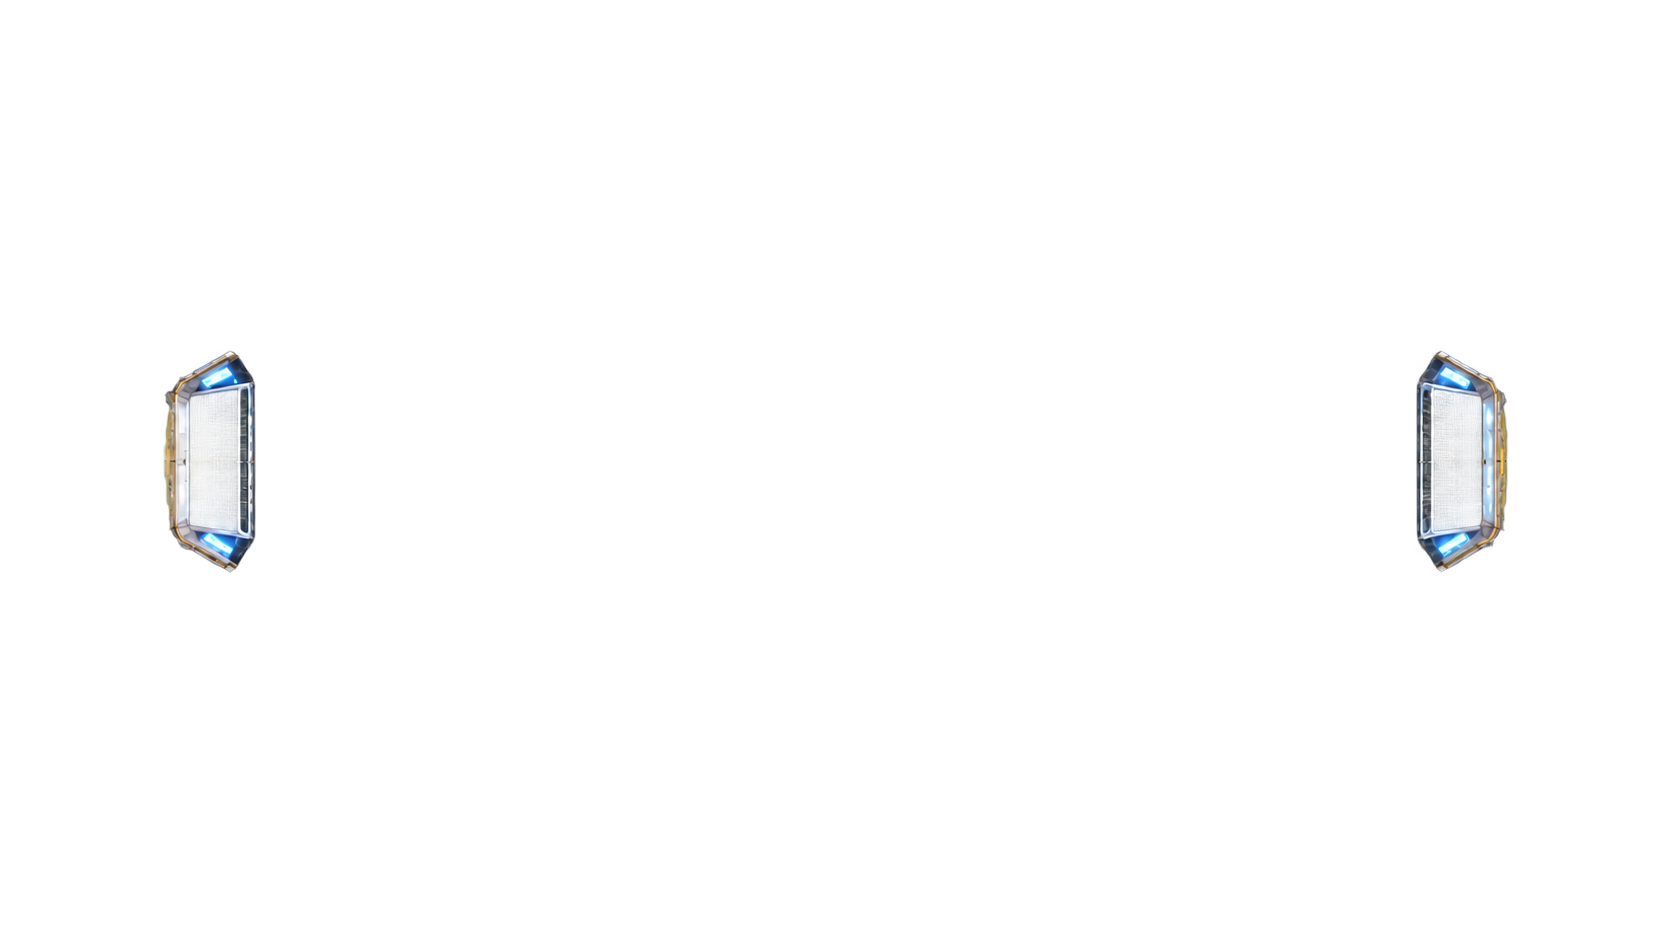
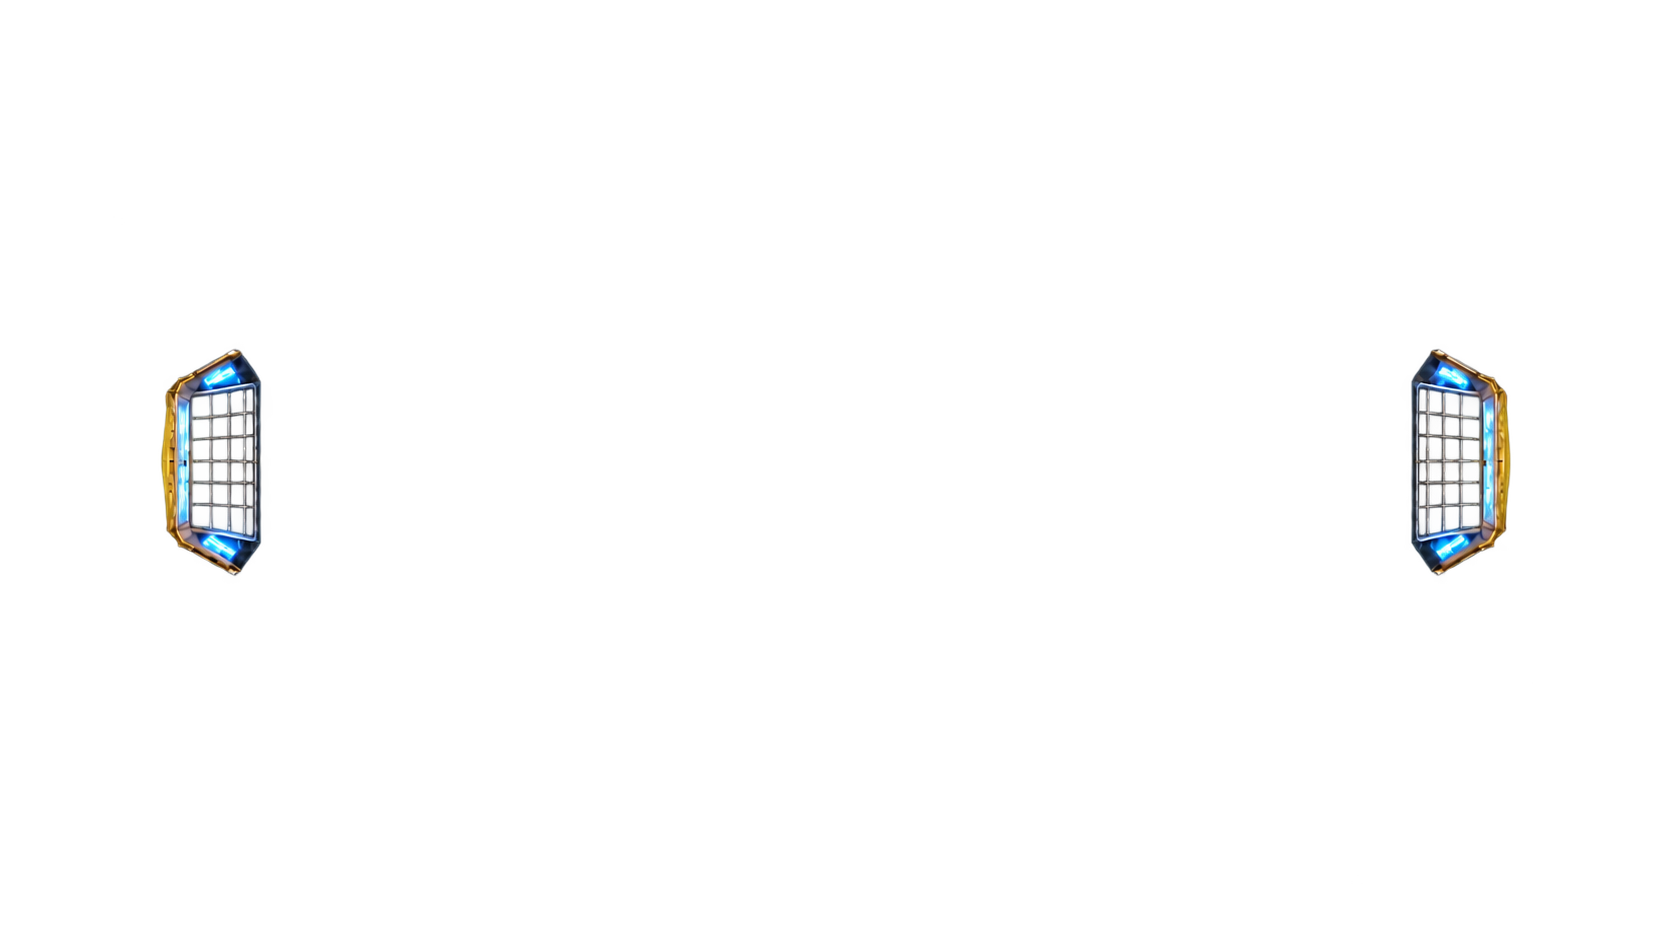
Cale les cages sur le filet peint, eclaircit la balle et fige la camera
- La cage du moteur passe de 90 a 67 de profondeur : une voiture s'y
  enfoncait d'une largeur de caisse au-dela du filet dessine. Les cages
  d'Astreon sont resserrees de 11 px vers l'exterieur pour tomber dessus.
- Plus de secousse d'ecran au contact de la balle, d'une voiture ou dans
  un coincement ; seul le but secoue encore.
- Le reflet des lampes sur la balle est double. On passe par sa force et
  non par l'eclat des panneaux, qui au-dela de 100 assombrit la balle.
- build.ps1 deposait le wasm dans public/rl2/ alors que le jeu le charge
  depuis public/rl2/assets/ : une modification du moteur n'arrivait jamais
  dans le navigateur.

Changed region(s): [[0.8397, 0.3698, 0.9019, 0.6164], [0.0933, 0.3698, 0.1555, 0.6164]]

diff --git a/public/rl2/js/scene3d.js b/public/rl2/js/scene3d.js
@@ -91,8 +91,12 @@ const LAMPES = [
   [-3.1, 4.0, -4.1, 0xffd69e], [3.1, 4.0, -4.1, 0xffffff],
   [-3.1, -4.0, -4.1, 0xb39670], [3.1, -4.0, -4.1, 0xffffff],
 ];
-/** Eclat des panneaux : c'est lui qui regle la clarte de la balle. */
-const ECLAT = 60;
+/** Eclat des panneaux. Au-dela d'environ 100, le reflet calcule decroche
+ *  et la balle s'assombrit au lieu de s'eclaircir : pour aller plus fort,
+ *  c'est `FORCE` qu'on monte, pas lui. */
+const ECLAT = 90;
+/** Force du reflet sur la balle : multiplie chaque lampe d'un coup. */
+const FORCE = 2;
 /** Le fond gris du monde de Blender, qui debouche les zones sans lampe. */
 const FOND = 0x303030;
 
@@ -147,6 +151,7 @@ export function makeBall(groupe, geom, renderer, onReady) {
         // le moteur de rendu la reinterprete comme une couleur lineaire.
         if (o.material.map) o.material.map.colorSpace = THREE.SRGBColorSpace;
         o.material.envMap = reflet;
+        o.material.envMapIntensity = FORCE;
       });
       // Le modele arrive a la taille ou il a ete dessine : on le ramene au
       // rayon que le moteur applique, quel qu'il soit.

diff --git a/public/rl2/js/main.js b/public/rl2/js/main.js
@@ -496,17 +496,9 @@ async function boot() {
     for (const e of readEvents(buf)) {
       switch (e.code) {
         case EV.HIT:
+          // Aucun contact ne secoue l'ecran, balle, voiture ou coincement :
+          // la camera ne bouge qu'au but.
           if (!fete) audio.ballTouch(e.value);
-          if (e.value > 120) view.kick(e.value / 90);
-          break;
-        case EV.BUMP:
-          view.kick(4);
-          break;
-        case EV.PINCH:
-          // Pas de son ajoute : la frappe de la meme image en a deja joue
-          // un, et les deux ensemble faisaient un grondement. C'est la
-          // secousse, plus forte qu'a l'ordinaire, qui dit le coincement.
-          view.kick(6 + e.value / 60);
           break;
         case EV.DEMO: {
           // La carcasse n'a pas bouge : c'est la qu'on fait sauter la bombe.

diff --git a/voidbelt-rl2/src/arena.rs b/voidbelt-rl2/src/arena.rs
@@ -28,9 +28,11 @@ pub const CORNER: f32 = 46.0;
 pub const CX: f32 = (MIN_X + MAX_X) * 0.5;
 pub const CY: f32 = (MIN_Y + MAX_Y) * 0.5;
 
-/// Demi-hauteur de la bouche de but, et profondeur des filets.
+/// Demi-hauteur de la bouche de but, et profondeur des filets. La
+/// profondeur suit le fond du filet peint sur les calques de cage : a 90,
+/// une voiture s'y enfoncait d'une largeur de caisse au-dela du dessin.
 pub const GOAL_HALF: f32 = 86.0;
-pub const GOAL_DEPTH: f32 = 90.0;
+pub const GOAL_DEPTH: f32 = 67.0;
 /// Retrait de la bouche de but par rapport au muret. Il vaut zero : la
 /// bouche est dans le plan du muret, qui file donc droit d'un coin a
 /// l'autre. Une bouche en retrait creusait une poche entre le montant et
